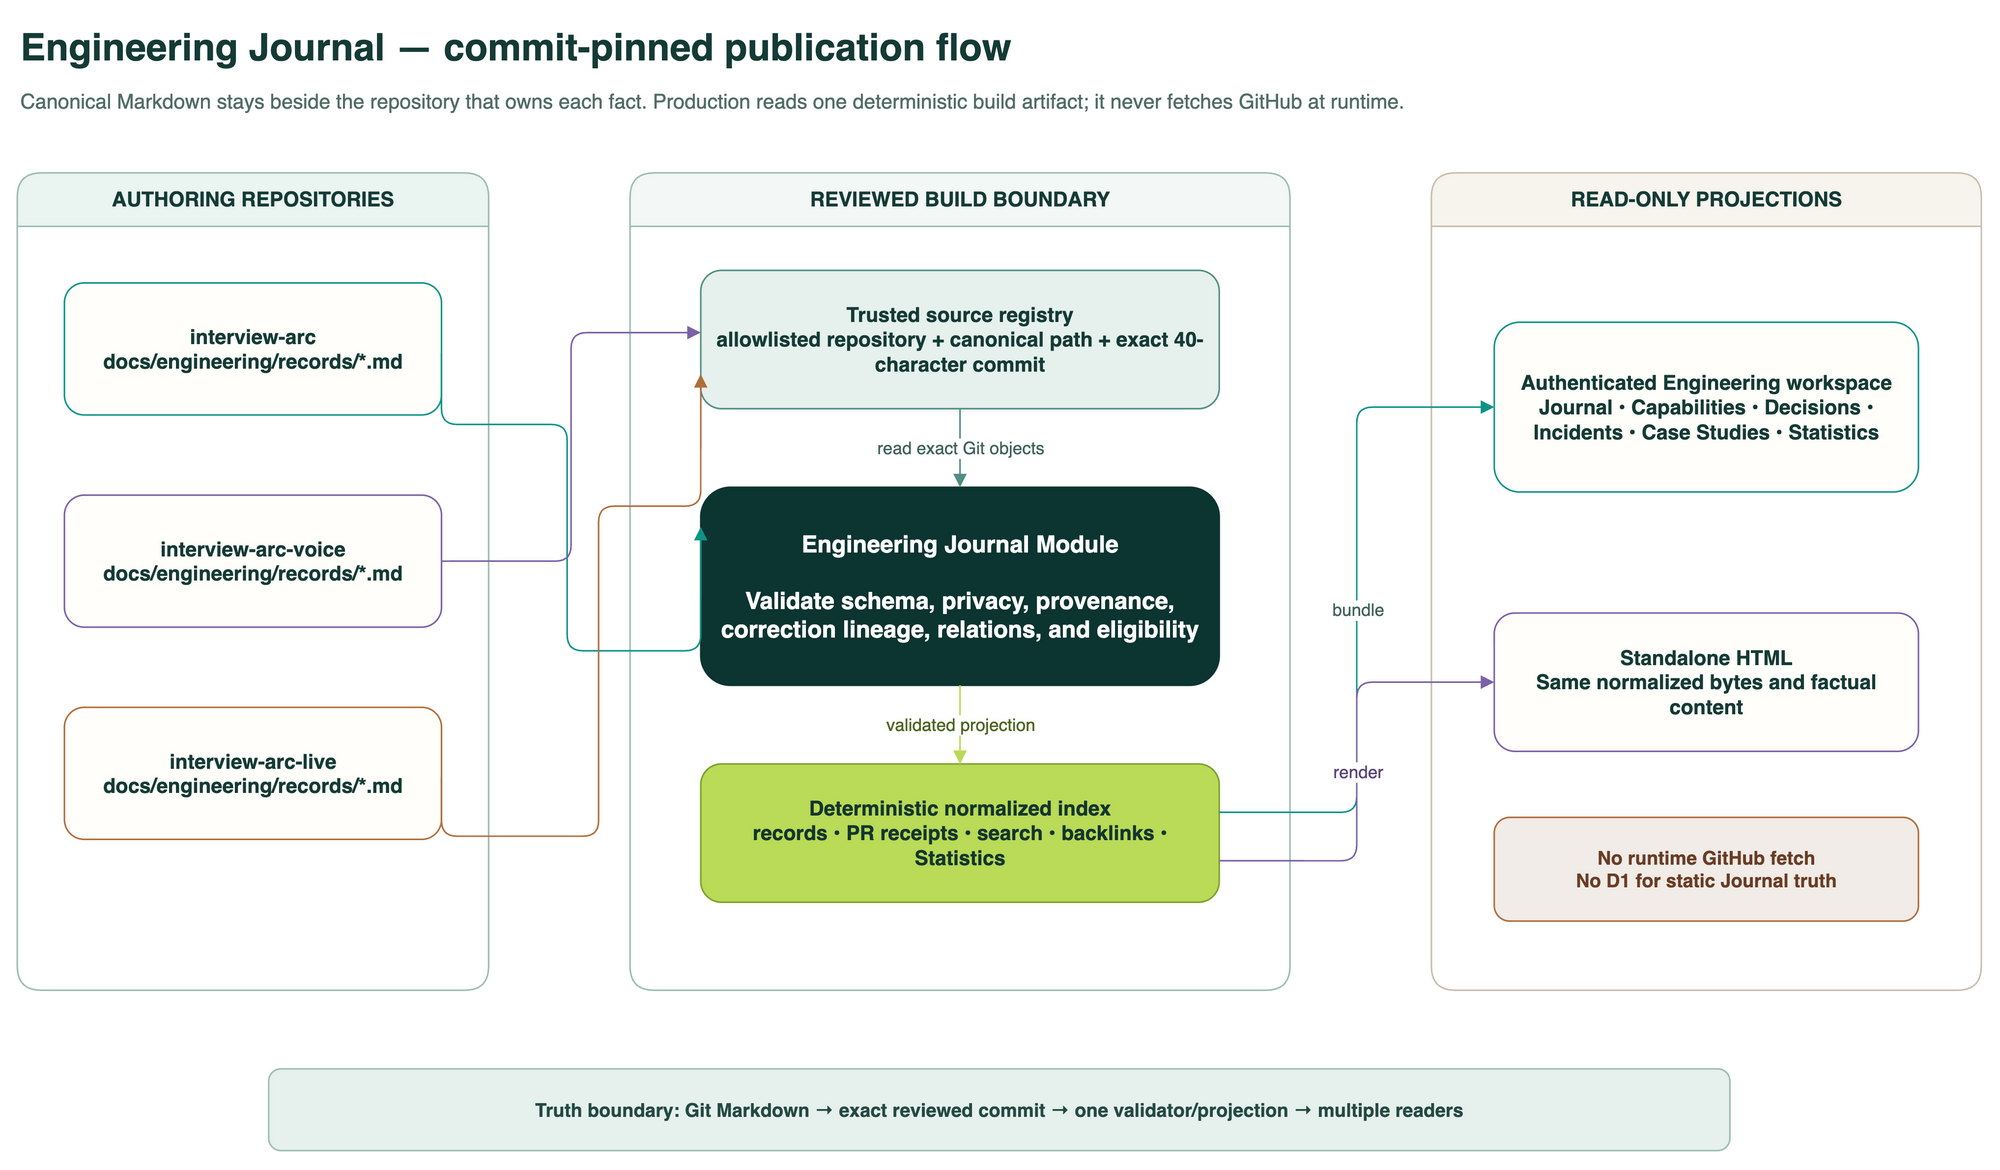
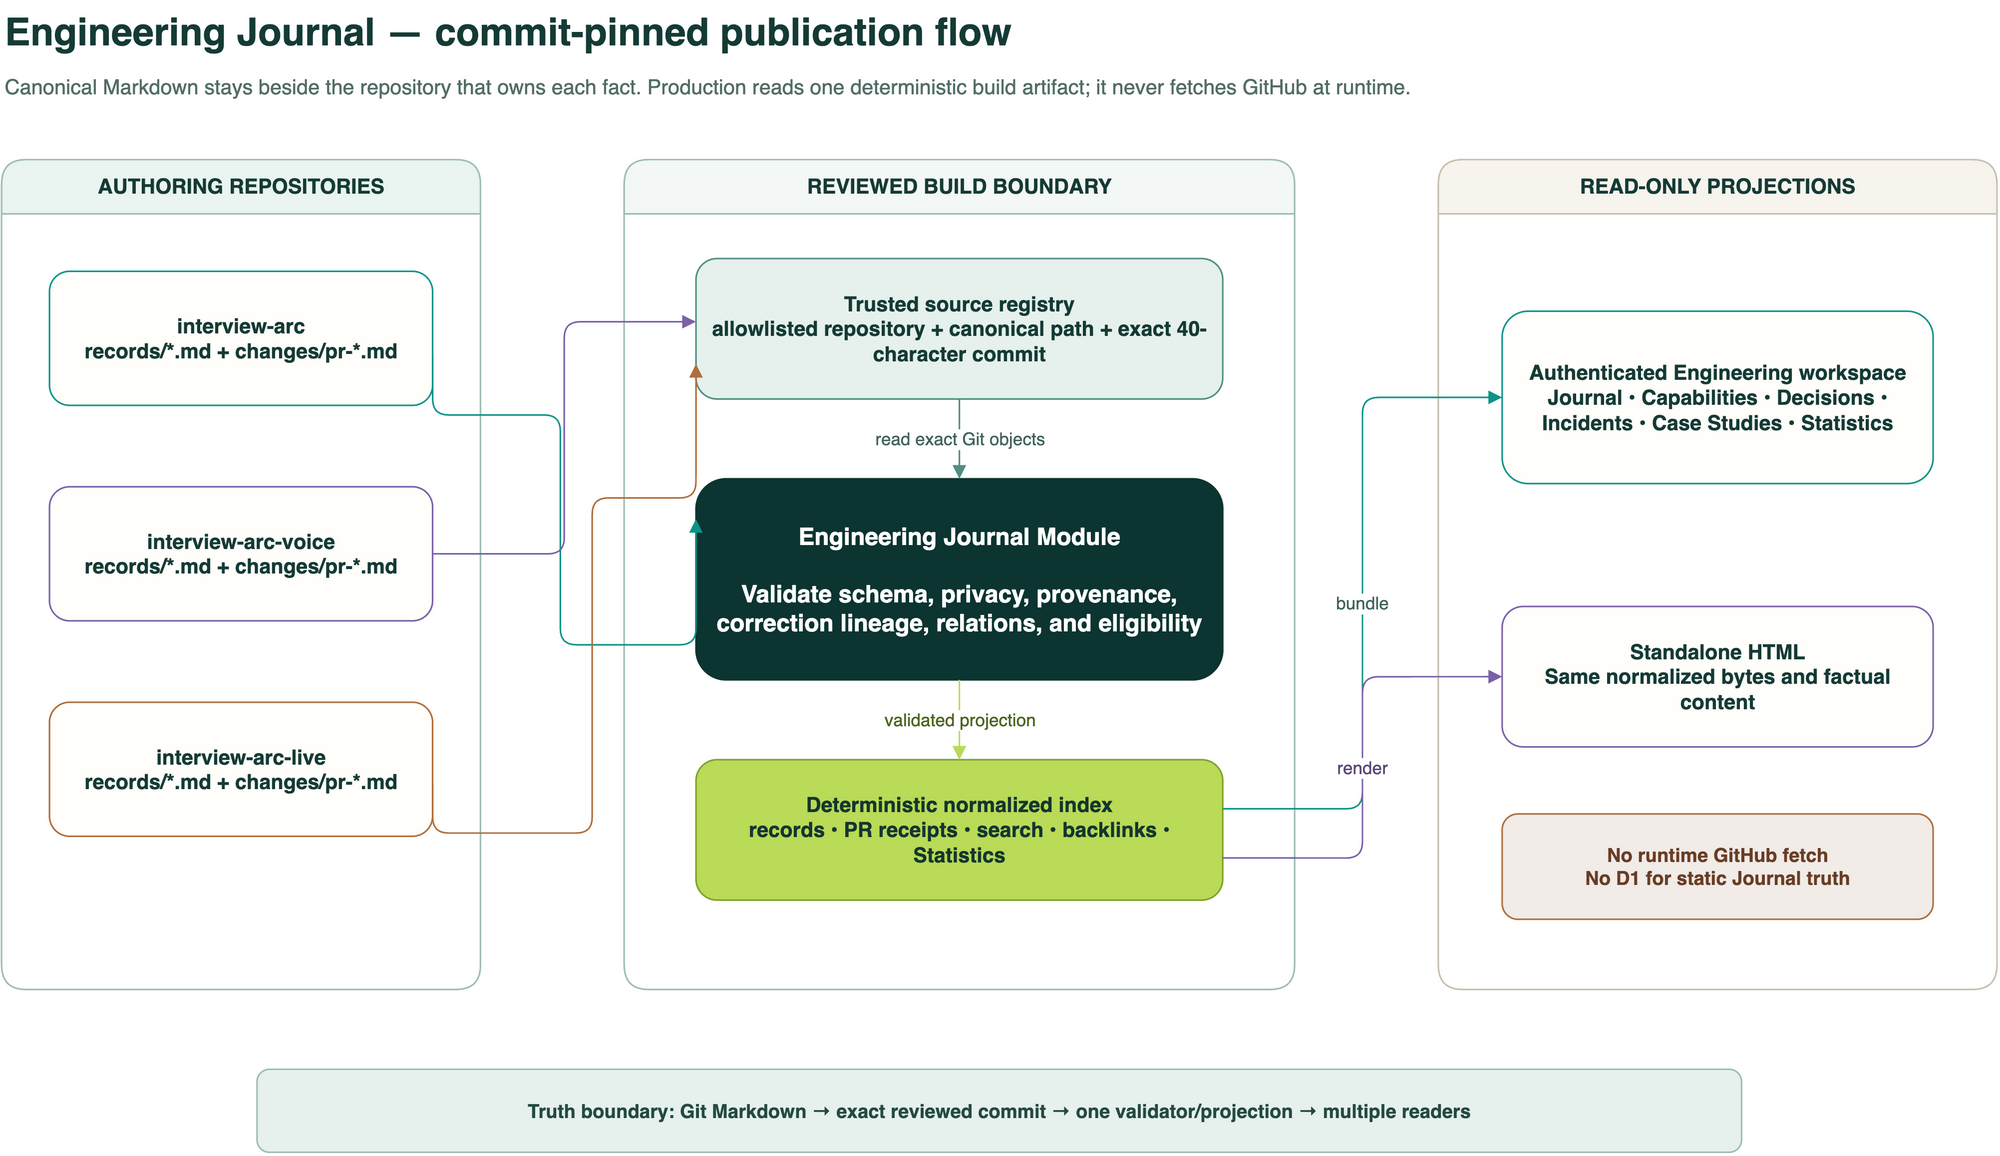
fix: harden engineering receipt provenance

diff --git a/engineering-journal/index.ts b/engineering-journal/index.ts
@@ -328,15 +328,13 @@ const PRIVATE_CONTENT_PATTERNS = [
 
 function parseScalar(raw: string): unknown {
   const value = raw.trim();
+  if (!value || /^['|>&*!]/.test(value)) throw new Error("unsupported frontmatter scalar");
   if (value === "null") return null;
   if (value === "true") return true;
   if (value === "false") return false;
   if (/^-?\d+$/.test(value)) return Number(value);
-  if ((value.startsWith("[") && value.endsWith("]")) || (value.startsWith("{") && value.endsWith("}"))) {
+  if (value.startsWith('"') || value.startsWith("[") || value.startsWith("{")) {
     return JSON.parse(value);
-  }
-  if ((value.startsWith('"') && value.endsWith('"')) || (value.startsWith("'") && value.endsWith("'"))) {
-    return value.slice(1, -1);
   }
   return value;
 }

diff --git a/docs/engineering/pull-request-history.md b/docs/engineering/pull-request-history.md
@@ -9,6 +9,8 @@ Engineering history has two deliberately separate layers. The separation keeps t
 
 The Pull Request Receipt contract is versioned by `docs/contracts/engineering-pull-request-receipt.schema.json`. The six rich record types remain Change Note, ADR, Architecture Review, Feature Retrospective, Postmortem, and Capability Dossier. A future contract change requires an explicit schema version; tooling must not silently reinterpret accepted version 1 documents.
 
+Version 1 uses restricted one-line frontmatter, not general YAML. Each nonempty line has one unique key and a nonempty value separated at the first colon. A value beginning with `"`, `[`, or `{`, the exact lowercase values `true`, `false`, or `null`, and exact integers are JSON-decoded; other values are plain strings unless they begin with the YAML-only characters `'`, `|`, `>`, `&`, `*`, or `!`. Block lists, multiline scalars, anchors, aliases, tags, duplicate keys, and empty values are rejected. This keeps the parser identical and deterministic across the three repositories.
+
 ## Forward authoring protocol
 
 The implementation coordinator owns the receipt as part of the pull request. The user does not need to request a separate Journal operation.
@@ -99,3 +101,5 @@ A backfill coordinator uses the same contracts; it does not author into a local 
 7. Commit canonical Markdown and repository-native diagram sources. Regenerate JSON and HTML through the standard build, then ingest other repositories from reviewed commit pins.
 
 Backfill batches should be bounded and reviewable. Existing accepted history is corrected by a new reviewed Git change; published rich records continue to use their amendment and supersession model rather than silent narrative replacement.
+
+An accepted rich record is never deleted. Corrections add a reviewed amendment or superseding revision so existing immutable links, receipts, and backlinks keep resolving to the evidence originally accepted.
